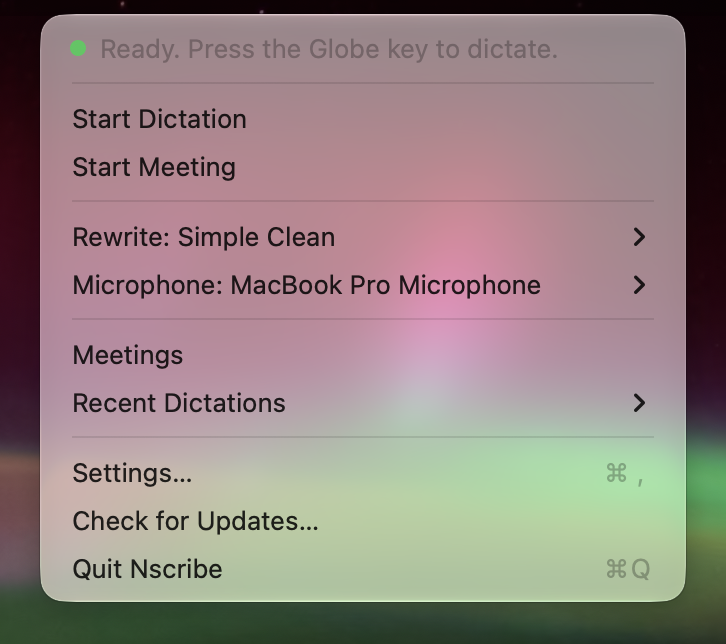
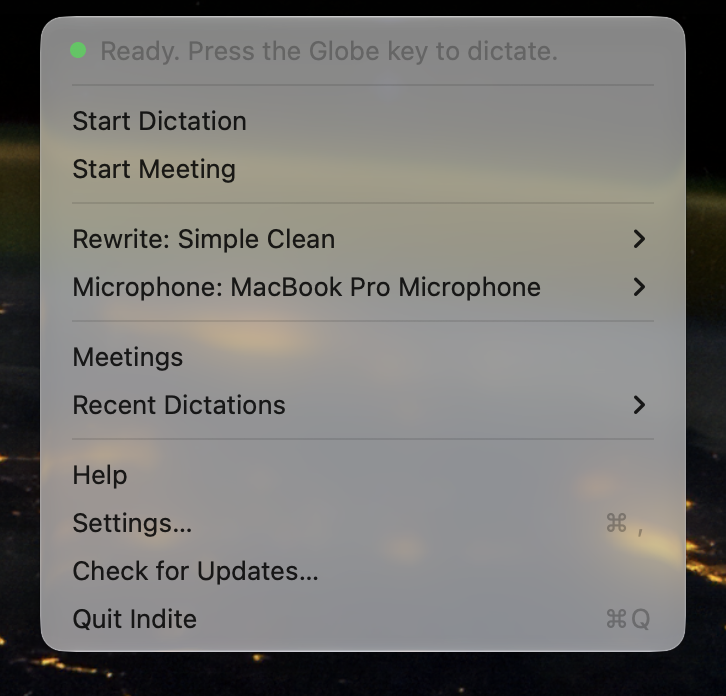
README: the menu as Indite has it
The old screenshot ended on "Quit Nscribe" and had no Help item.

diff --git a/README.md b/README.md
@@ -103,7 +103,7 @@ Apple Intelligence turned on.
 
 <p align="center">
   <img src="Docs/Images/menu.png" width="363"
-       alt="Indite's menu: Start Dictation, Start Meeting, the rewrite style, the microphone, Meetings, Recent Dictations, Settings and Check for Updates">
+       alt="Indite's menu: Start Dictation, Start Meeting, the rewrite style, the microphone, Meetings, Recent Dictations, Help, Settings and Check for Updates">
 </p>
 
 ## FAQ
